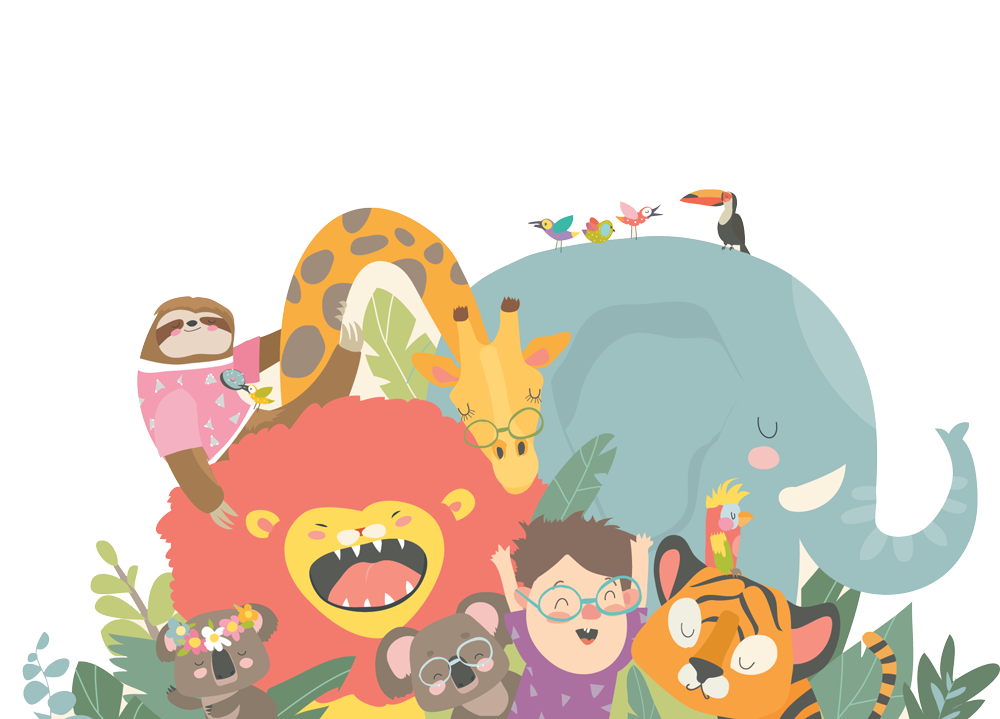
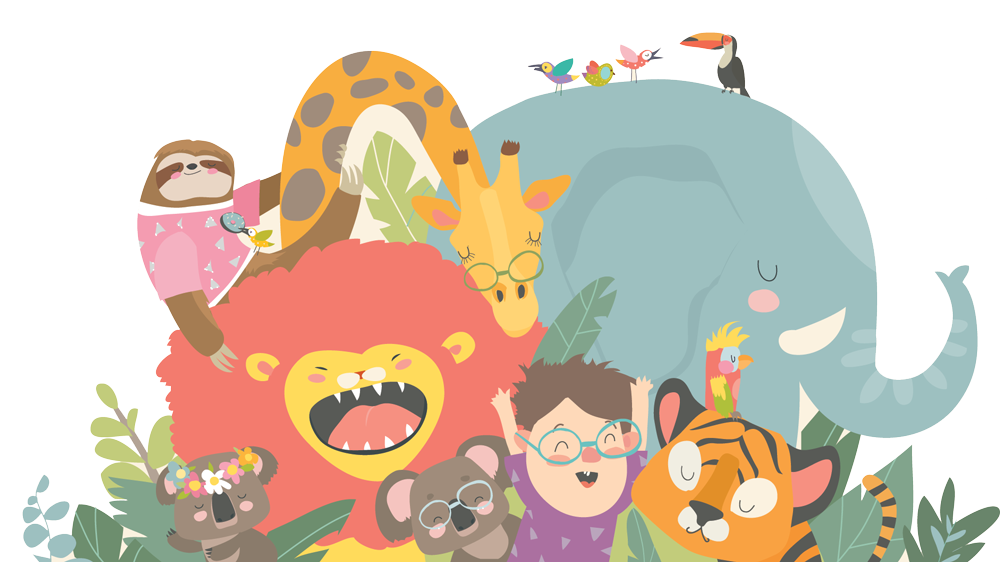
add col-flex for larger screens.

diff --git a/index.html b/index.html
@@ -1,5 +1,4 @@
 <html>
-
   <head>
     <link href="css/bootstrap.css" rel="stylesheet" type="text/css">
     <link href="css/styles.css" rel="stylesheet" type="text/css">
@@ -9,7 +8,6 @@
     <link rel="icon" type="image/png" href="img/favicon.png">
     <title>Averys Cheetah Cafe</title>
   </head>
-
   <body>
     <div class="container containerX justify-content-center">
       <div class="container">
@@ -24,7 +22,7 @@
       <form>
           <div class="row">
               <div class="col-md-4">
- <!--               <p class = "name btn is-primary">Enter Name</p> -->
+                <p class = "name btn is-primary">Enter Name</p>
                 <p class = "namePrint"></p>
               </div>
 
@@ -41,7 +39,7 @@
               <div class="col-md-2">
                 <h2 class = "heading">Size</h2>
                 <select class = "form-control" id="sizeList" placeholder = "Quesadilla Size">
-                  <option value="cub">>Cub Size</option>
+                  <option value="cub">Cub Size</option>
                   <option value="regular">Regular Size</option>
                   <option value="big cat">Big Cat Size</option>
                 </select>
@@ -51,20 +49,20 @@
 
               <div class="col-md-4">
                 
-                  <div class="col-md-4"></div>
-                  <div class="col-md-4 receiptIMG">
+                  <div class="col-md-3"></div>
+                  <div class="col-md-6 receiptIMG">
                     <div class="orderDetails gutter"></div>
                     <p class = "receiptPrintout"></p>
                   </div>
-                  <div class="col-md-4"></div>
+                  <div class="col-md-3"></div>
                 </div>
           </div>
         </form>
         <div class="container">
               <div class="row"></div>
-              <div class="col-md-1"></div>
-              <div class="col-md-10 animal-friendsIMG"></div>
-              <div class="col-md-1"></div>
+              <div class="col-md-1 col-lg-2"></div>
+              <div class="col-md-10 col-lg-8 animal-friendsIMG"></div>
+              <div class="col-md-1 col-lg-2"></div>
         </div>
     </div>
   </body>

diff --git a/css/styles.css b/css/styles.css
@@ -86,8 +86,8 @@ body {
 	background-position:center;
 	background-repeat:no-repeat;
 	background-size:cover;
-	height:500px;
-  width:750px;
+	height:562px;
+  width:1000px;
 }
 
 .shieldIMG {
